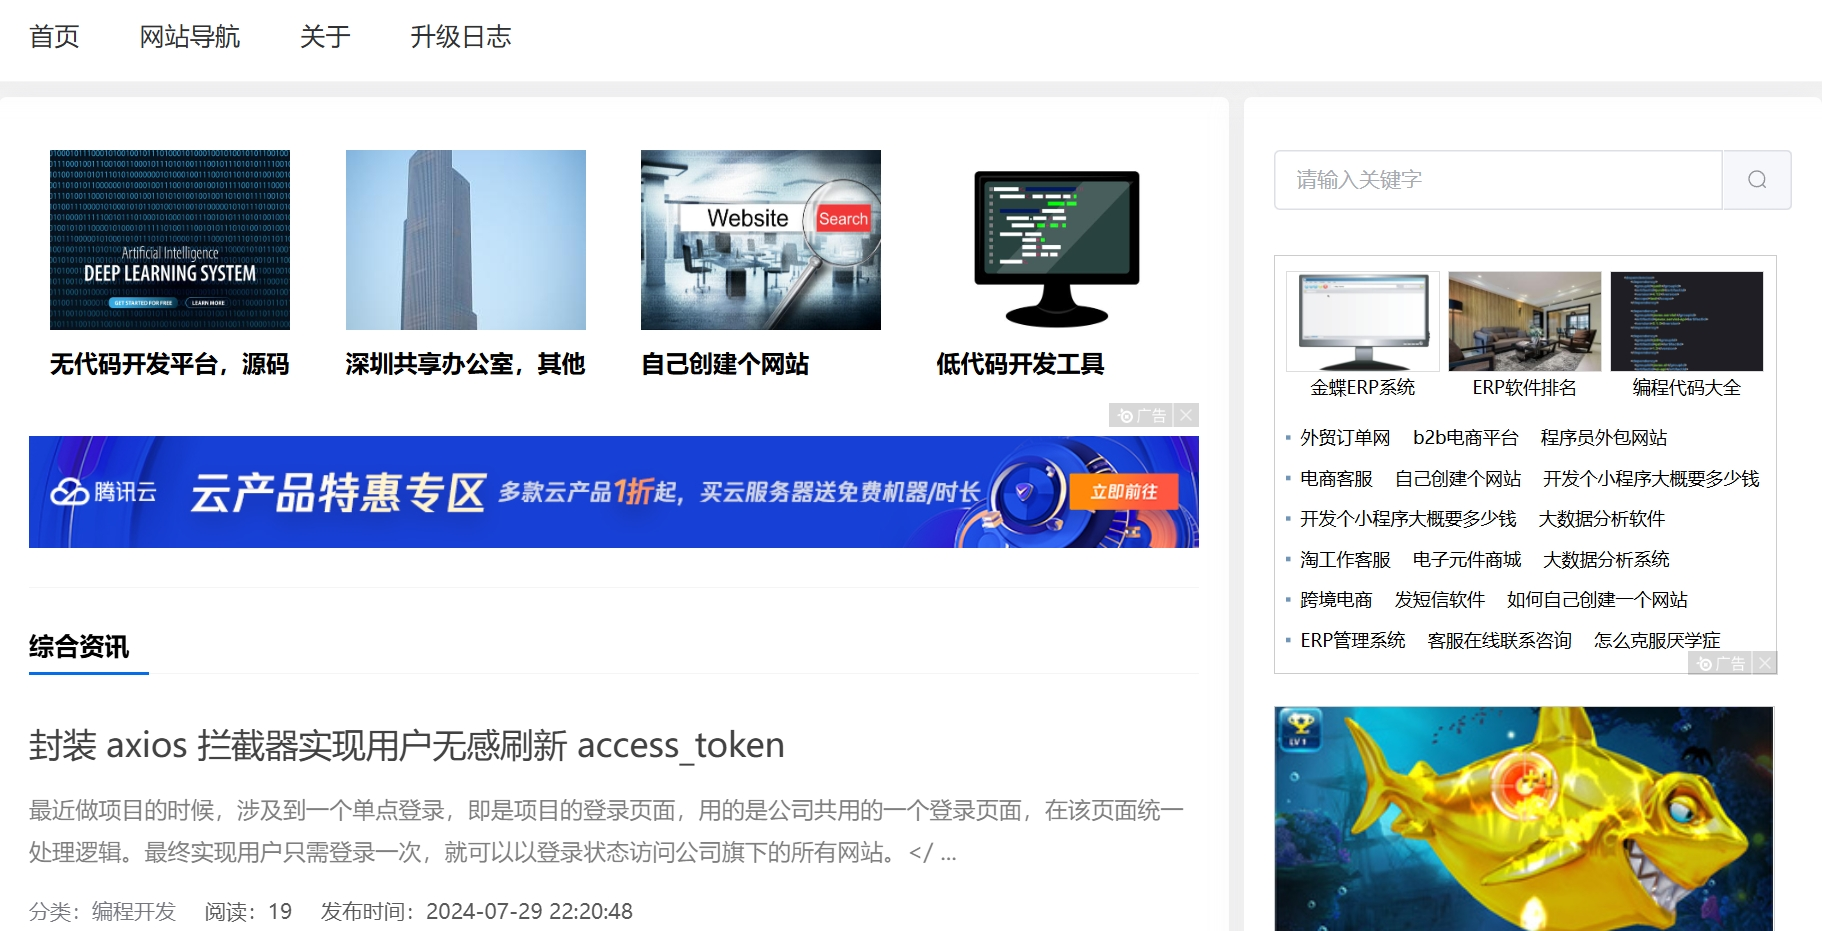
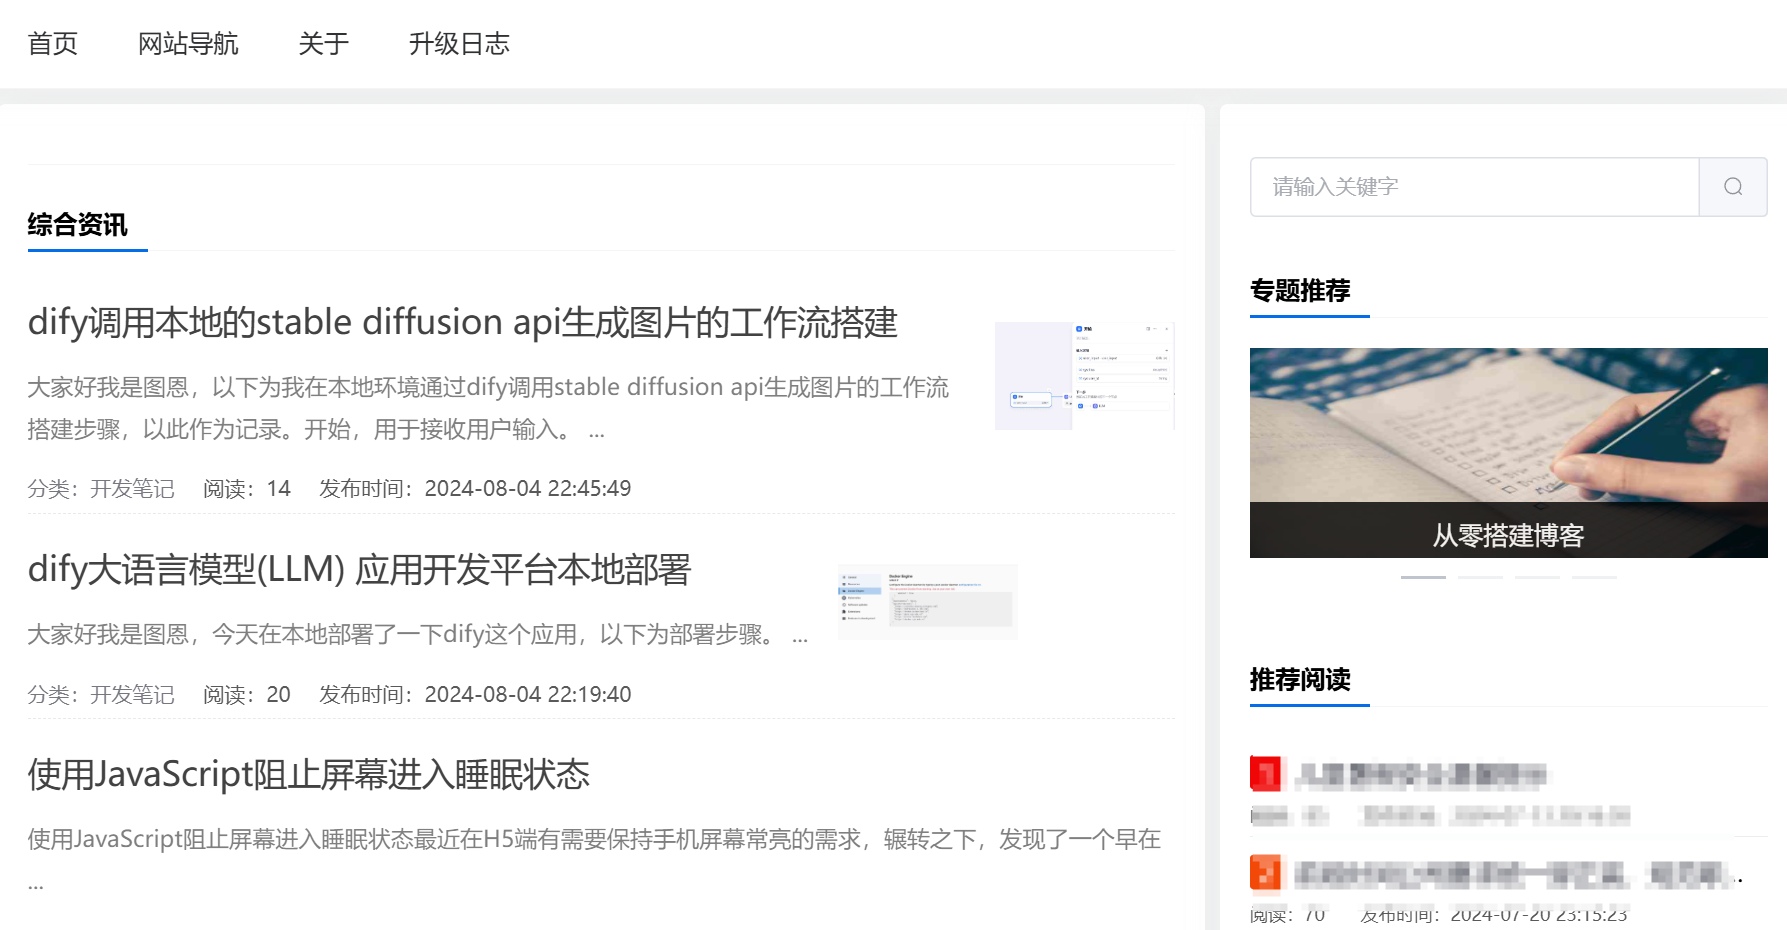
更新导航页面

diff --git a/pages/project/vueAdminPlus.vue b/pages/project/vueAdminPlus.vue
@@ -20,7 +20,7 @@
           <div class="second-title">{{ state.currentItem.h4 }}</div>
         </div>
         <div class="img-container">
-          <img src="../../assets/img/project/nuxt-web.png" alt="" style="width: 100%;border-radius: 10px;">
+          <img src="../../assets/img/project/vue-admin-plus.png" alt="" style="width: 100%;border-radius: 10px;">
         </div>
       </div>
     </div>
@@ -35,7 +35,7 @@
           <div class="second-title">{{ state.currentItem.h8 }}</div>
         </div>
         <div class="img-container">
-          <img src="../../assets/img/project/nuxt-web-2.png" alt="" style="width: 100%;border-radius: 10px;">
+          <img src="../../assets/img/project/vue-admin-plus-2.png" alt="" style="width: 100%;border-radius: 10px;">
         </div>
         <div class="aspect-radius-contaner"></div>
       </div>
@@ -61,7 +61,11 @@ const state = reactive({
     {
       path: "/project",
       name: "nuxtWebPlus",
-      h1: "认识 nuxtWebPlus",
+    },
+    {
+      path: "/project/vueAdminPlus",
+      name: "vueAdminPlus",
+      h1: "认识 vueAdminPlus",
       h2: "全球数百万网站（从创作者、小型企业到大型企业）的选择发布平台。",
       h3: "简洁友好",
       h4: "精心打磨的视觉语言，让网站内容更自然，更流畅。",
@@ -69,11 +73,6 @@ const state = reactive({
       h6: "加载快速，瞬间渲染，无需等待。",
       h7: "为你所用",
       h8: "让您的网站做任何您需要它做的事情",
-    },
-
-    {
-      path: "/project/vueAdminPlus",
-      name: "vueAdminPlus",
     },
     {
       path: "/project/statistics",
@@ -86,9 +85,7 @@ const state = reactive({
   ]
 })
 
-state.currentItem = state.list[0]
-
-
+state.currentItem = state.list[1]
 </script>
 <style lang="scss" scoped>
 .project-container {

diff --git a/pages/project/cleanads.vue b/pages/project/cleanads.vue
@@ -35,7 +35,7 @@
           <div class="second-title">{{ state.currentItem.h8 }}</div>
         </div>
         <div class="img-container">
-          <img src="../../assets/img/project/nuxt-web-2.png" alt="" style="width: 100%;border-radius: 10px;">
+          <img src="../../assets/img/project/nuxt-web.png" alt="" style="width: 100%;border-radius: 10px;">
         </div>
         <div class="aspect-radius-contaner"></div>
       </div>
@@ -61,19 +61,11 @@ const state = reactive({
     {
       path: "/project",
       name: "nuxtWebPlus",
-      h1: "认识 nuxtWebPlus",
-      h2: "全球数百万网站（从创作者、小型企业到大型企业）的选择发布平台。",
-      h3: "简洁友好",
-      h4: "精心打磨的视觉语言，让网站内容更自然，更流畅。",
-      h5: "轻量高效",
-      h6: "加载快速，瞬间渲染，无需等待。",
-      h7: "为你所用",
-      h8: "让您的网站做任何您需要它做的事情",
     },
-
     {
       path: "/project/vueAdminPlus",
       name: "vueAdminPlus",
+
     },
     {
       path: "/project/statistics",
@@ -82,11 +74,20 @@ const state = reactive({
     {
       path: "/project/cleanads",
       name: "cleanads",
+      h1: "认识 cleanads",
+      h2: "全球数百万网站（从创作者、小型企业到大型企业）的选择发布平台。",
+      h3: "简洁友好",
+      h4: "精心打磨的视觉语言，让网站内容更自然，更流畅。",
+      h5: "轻量高效",
+      h6: "加载快速，瞬间渲染，无需等待。",
+      h7: "为你所用",
+      h8: "让您的网站做任何您需要它做的事情",
     }
   ]
 })
 
-state.currentItem = state.list[0]
+
+state.currentItem = state.list[3]
 
 
 </script>

diff --git a/pages/project/statistics.vue b/pages/project/statistics.vue
@@ -35,7 +35,7 @@
           <div class="second-title">{{ state.currentItem.h8 }}</div>
         </div>
         <div class="img-container">
-          <img src="../../assets/img/project/nuxt-web-2.png" alt="" style="width: 100%;border-radius: 10px;">
+          <img src="../../assets/img/project/nuxt-web.png" alt="" style="width: 100%;border-radius: 10px;">
         </div>
         <div class="aspect-radius-contaner"></div>
       </div>
@@ -61,14 +61,7 @@ const state = reactive({
     {
       path: "/project",
       name: "nuxtWebPlus",
-      h1: "认识 nuxtWebPlus",
-      h2: "全球数百万网站（从创作者、小型企业到大型企业）的选择发布平台。",
-      h3: "简洁友好",
-      h4: "精心打磨的视觉语言，让网站内容更自然，更流畅。",
-      h5: "轻量高效",
-      h6: "加载快速，瞬间渲染，无需等待。",
-      h7: "为你所用",
-      h8: "让您的网站做任何您需要它做的事情",
+
     },
 
     {
@@ -78,6 +71,14 @@ const state = reactive({
     {
       path: "/project/statistics",
       name: "statistics",
+      h1: "认识 nuxtWebPlus",
+      h2: "全球数百万网站（从创作者、小型企业到大型企业）的选择发布平台。",
+      h3: "简洁友好",
+      h4: "精心打磨的视觉语言，让网站内容更自然，更流畅。",
+      h5: "轻量高效",
+      h6: "加载快速，瞬间渲染，无需等待。",
+      h7: "为你所用",
+      h8: "让您的网站做任何您需要它做的事情",
     },
     {
       path: "/project/cleanads",
@@ -86,7 +87,7 @@ const state = reactive({
   ]
 })
 
-state.currentItem = state.list[0]
+state.currentItem = state.list[2]
 
 
 </script>

diff --git a/pages/index.vue b/pages/index.vue
@@ -7,8 +7,8 @@
             <div class="carousel-item" v-if="state.siteInfo.carouselEnable === 'Y'">
               <homeCarousel :state="state"></homeCarousel>
             </div>
-            <div class="_lrzdvi6yazm"></div>
-            <a href="https://curl.qcloud.com/tcHI6pAl"><img src="../assets/img/tencent_tg.jpg" width="100%" alt=""></a>
+            <!-- <div class="_lrzdvi6yazm"></div> -->
+            <!-- <a href="https://curl.qcloud.com/tcHI6pAl"><img src="../assets/img/tencent_tg.jpg" width="100%" alt=""></a> -->
           </div>
         </div>
 

diff --git a/components/common/sideBar.vue b/components/common/sideBar.vue
@@ -10,10 +10,10 @@
           </el-input>
         </div>
       </li>
-      <li>
+      <!-- <li>
         <div class="_oi1z2s14bx"></div>
-      </li>
-      <div class="_clzacg58dkb"></div>
+      </li> -->
+      <!-- <div class="_clzacg58dkb"></div> -->
       <li>
         <div class="module category">
           <commonTitle :title="'专题推荐'"></commonTitle>
